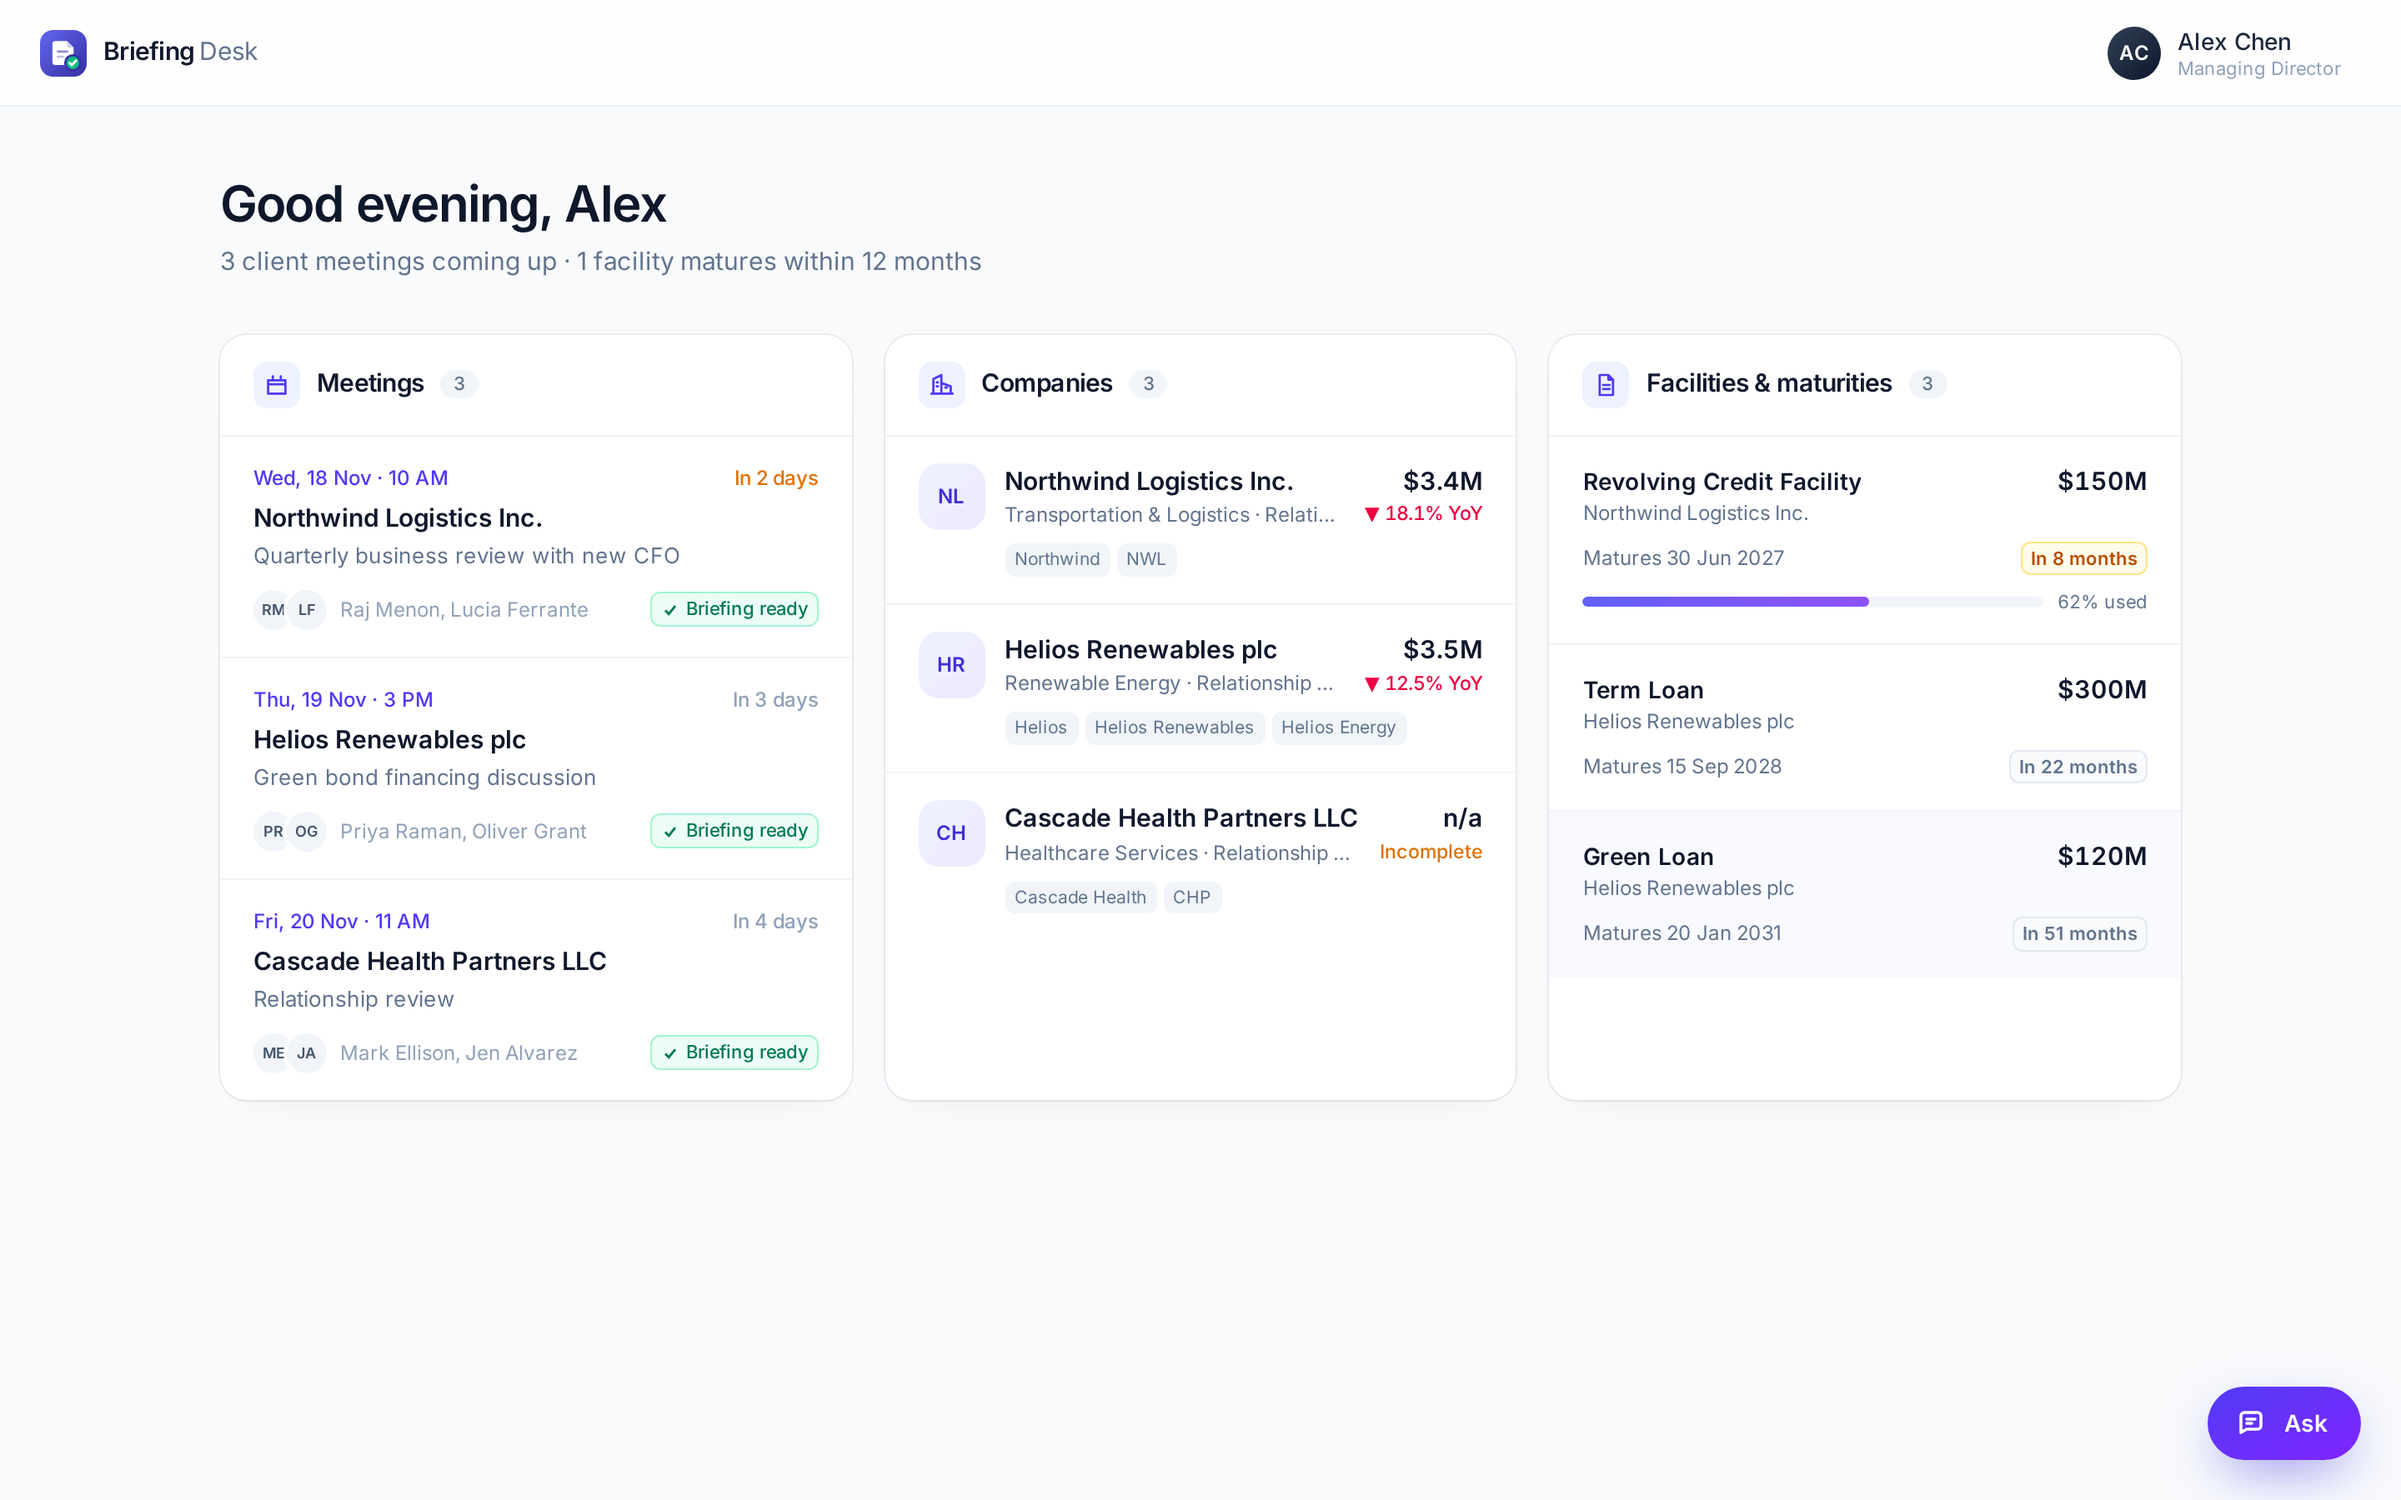
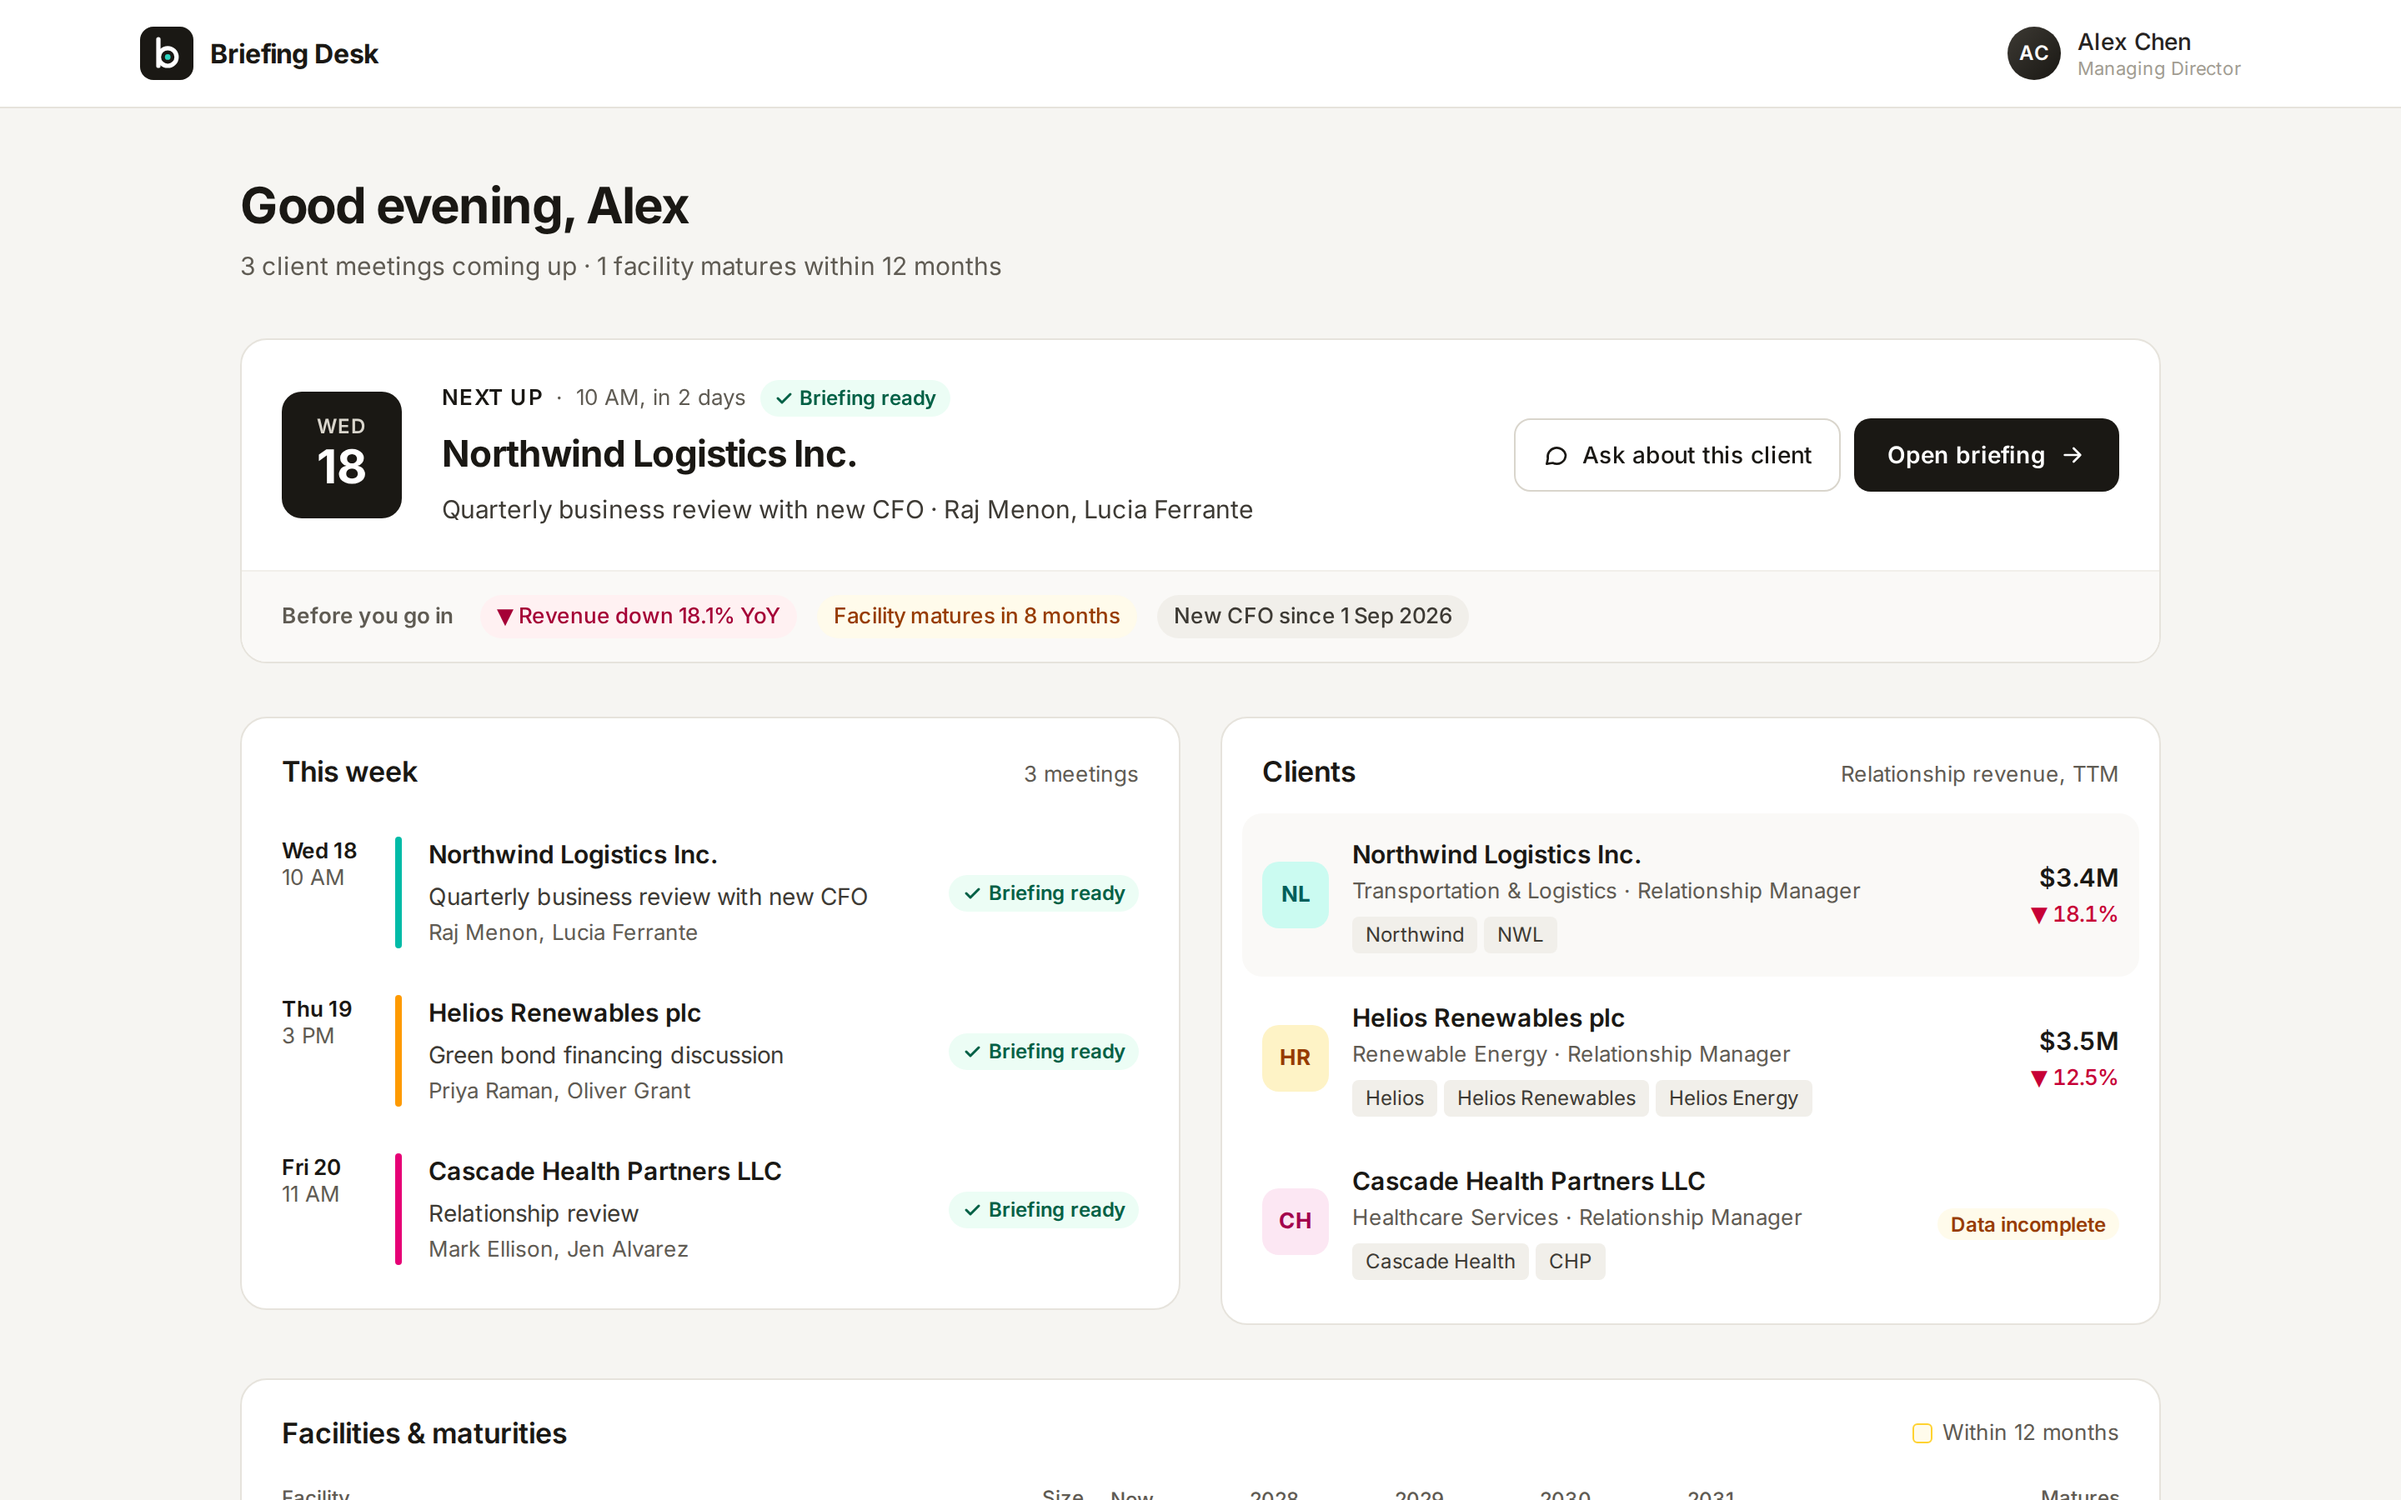
Docs: describe the prep panel, Next up home and header chat

diff --git a/docs/images/architecture.html b/docs/images/architecture.html
@@ -146,7 +146,7 @@
           <li><b>Home</b>: meetings, companies, facilities</li>
           <li><b>Briefing</b>: key figures, 7 sections, inline citations, Verified / Check sources</li>
           <li><b>Attention</b>: overdue first, was → now conflicts, gaps</li>
-          <li><b>Ask chat</b>: floating, any question, same verification</li>
+          <li><b>Ask chat</b>: any question, same verification</li>
           <li><b>Review</b>: accept / reject with reason</li>
           <li><b>After the meeting</b>: notes to commitments</li>
         </ul>

diff --git a/specs/05-api-ui.md b/specs/05-api-ui.md
@@ -60,8 +60,8 @@ cited sentence highlighted, source type, date and authority flags (derived, stal
 suspected injection). Structured sources show the database row itself (`Citation.record`) as a
 field table, named by table and record ID, with the sentence the model was given beneath it.
 
-**UI-5 Side rails – "Needs attention":** left: what to do before the meeting (actions by urgency,
-access notice). Every item shows where it came from (From records, From a conflict, Suggested by AI,
+**UI-5 Prep panel – "Needs attention":** one sticky panel beside the briefing with two tabs: To do
+(actions by urgency, access notice) and Conflicts (conflicts, then gaps). Every item shows where it came from (From records, From a conflict, Suggested by AI,
 From your notes, Added by you). Ticking saves an action and unticking removes it; "Add item" saves a
 typed one; saved actions reappear in the client's later briefings and ticked suggestions stay ticked; right: conflicts and gaps. Originally one right rail: conflicts (both values side by side + resolution),
 unknowns, `access_limited` notice ("Some sources are not available at your access level"),
@@ -80,16 +80,18 @@ who reviewed it and how many claims were checked and removed.
 
 **UI-10 Cost & latency footer:** tokens, cost (if provider reports it), generation time.
 
-**UI-11 Home:** after sign-in, three cards: Meetings (time, purpose, attendees, briefing ready or
-not), Companies (industry, our role, revenue TTM and YoY, aliases) and Facilities & maturities
-(notional, maturity, amber when within 12 months, utilization). Replaces the meeting sidebar.
+**UI-11 Home:** after sign-in: Next up (the next meeting, briefing ready or not, "Before you go in"
+chips: revenue trend, a facility maturing within 12 months, new key contacts); This week (meetings,
+one colour per client); Clients (revenue TTM and YoY, aliases); Facilities & maturities on a shared
+timeline with the next 12 months shaded. Replaces the meeting sidebar.
 
 **UI-12 Top bar:** brand (home) and the profile menu (switch profile, data health, sign out). A
 company search box was tried and removed: the home cards list every covered client, and the chat
 picks its client. API-13 remains available. Browser Back / Forward and reload follow the open
 meeting (`#/meeting/<id>`); the briefing page has a Home link.
 
-**UI-13 Ask chat:** a floating chat on every page (bottom right, clear of the attention panel on the left). Typing is never blocked. While
+**UI-13 Ask chat:** opened from "Ask about <client>" in the briefing header or "Ask about this client"
+on Home; the panel can switch client. Typing is never blocked. While
 the user types, the client named in the question is detected (API-13, aliases included) and shown
 ("About Northwind Logistics, from NWL"); otherwise the client on screen is used; with neither, the
 chat keeps the question and asks which client it is about. Suggested questions; each answer shows

diff --git a/README.md b/README.md
@@ -50,10 +50,10 @@ A five-minute tour:
    no model involved). Click **Prepare briefing**: seven sections stream in about 8 seconds.
 2. **Click a small number like ¹** inside a sentence. The source opens with the exact sentence
    highlighted, or the database row itself.
-3. **Look at the side columns.** On the left, the overdue proposal is on top. On the right, "Changed" cards show what the
+3. **Look at the prep panel on the right.** Under To do, the overdue proposal is on top. Under Conflicts, "Changed" cards show what the
    last briefing said ($4.1M and growing, Dana Whitfield as CFO) next to what is true now.
-4. **Click "Ask about Northwind"** (bottom right, on every page) and ask anything. Answers are
-   cited and verified like the briefing.
+4. **Click "Ask about Northwind"** in the briefing header (or "Ask about this client" on Home) and ask
+   anything. Answers are cited and verified like the briefing.
 5. **Switch to Sam, then to Kim, and open Helios.** Kim sees the Aurora mandate. Sam does not, and
    nothing on Sam's page names it (only a general "some sources are restricted" notice).
 6. **Back on Home**, Companies lists each client with its aliases ("NWL" is Northwind), revenue

diff --git a/docs/DESIGN.md b/docs/DESIGN.md
@@ -169,7 +169,7 @@ The briefing is designed to be read in a minute, not studied:
 - **Conflicts as "was → now"**: "Last briefing said ~$4.1M and growing → System record $3.4M, down
   18.1%". The outdated side stays visible on purpose: the team may still believe it.
 - **Before the meeting**: actions ordered by urgency, overdue items first with a day count.
-- **Ask chat**: a floating chat on every page; any further question goes through the same
+- **Ask chat**: opened from the briefing header or Home; any further question goes through the same
   retrieval and verification as a section, with citations and verification tags in the answer.
 - **Readable everywhere**: dates as "15 Oct 2026", amounts as "$3.4M", inline citations as small
   numbers that open the source with the sentence highlighted, or the database row itself.
